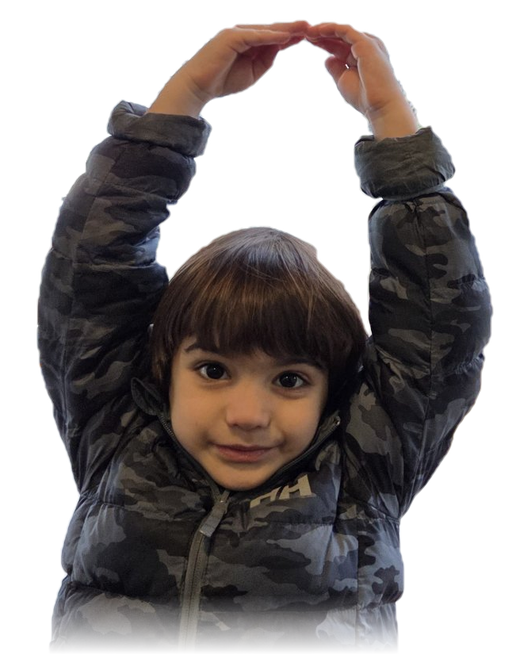
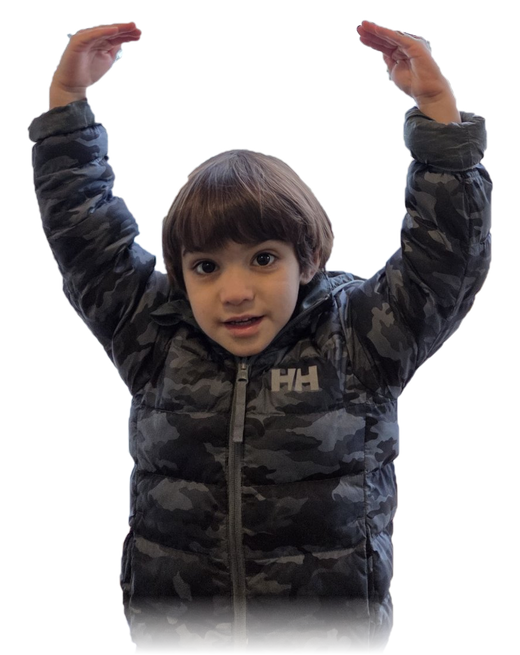
Seleção de personagem com a foto de braços abertos
- Retratos dos cards (Mamá, Kike, Eric, Theo) passam a usar a pose de
  braços abertos, a mesma com que o personagem começa no jogo
- Foto acima do nome no card, para o nome não cobrir o rosto
- Remove o retrato antigo da Mamá (mãos juntas), que não é mais usado

Claude-Session: https://claude.ai/code/session_01KAPocvphtqyodwJx9a47c3

diff --git a/index.html b/index.html
@@ -116,9 +116,9 @@
       }
       .card:hover { transform: translateY(-3px) rotate(-1deg); }
       .card.selected { outline: 5px solid var(--yellow); outline-offset: 4px; }
-      .card img { position: absolute; inset: 8% 6% 0; width: 88%; height: 92%; object-fit: contain; object-position: bottom; filter: drop-shadow(0 6px 6px rgba(0, 0, 0, 0.2)); }
+      .card img { position: absolute; top: 5%; left: 6%; width: 88%; height: 73%; object-fit: contain; object-position: bottom; filter: drop-shadow(0 6px 6px rgba(0, 0, 0, 0.2)); }
       .card-name {
-        position: relative; margin-bottom: 8%; text-align: center;
+        position: relative; margin-bottom: 5%; text-align: center;
         font-weight: 700; font-size: clamp(24px, 5vw, 36px); color: #fff;
         -webkit-text-stroke: 0.08em var(--ink); paint-order: stroke fill;
         text-shadow: 0 0.08em 0 var(--ink);

diff --git a/src/characters.js b/src/characters.js
@@ -9,7 +9,7 @@ export const CHARACTERS = {
     name: 'Mamá',
     open: `${BASE}cursor/girl-open.png`,
     closed: `${BASE}cursor/girl-closed.png`,
-    portrait: `${BASE}characters/mama.png`,
+    portrait: `${BASE}cursor/girl-open.png`,
     color: '#ff4fa3',
   },
   kike: {

diff --git a/README.md b/README.md
@@ -42,7 +42,7 @@ Cada quadro deforma uma esfera subdividida (≈7.800 vértices) somando várias 
 ## Personagens
 
 As imagens de cursor têm a mesma geometria: 300×360 (2×), com o ponto entre as mãos em (150, 60).
-Fotos recortadas em `public/characters/`: `<nome>-open.png` (mãos abertas), `<nome>-closed.png` (mãos juntas) e `<nome>.png` (retrato do card). As da Mamá ficam em `public/cursor/`. Para adicionar alguém, siga o mesmo formato e acrescente uma entrada em `src/characters.js`.
+Fotos recortadas em `public/characters/`: `<nome>-open.png` (mãos abertas), `<nome>-closed.png` (mãos juntas) e `<nome>.png` (retrato do card, de braços abertos). As da Mamá ficam em `public/cursor/`. Para adicionar alguém, siga o mesmo formato e acrescente uma entrada em `src/characters.js`.
 
 ## Estrutura
 
